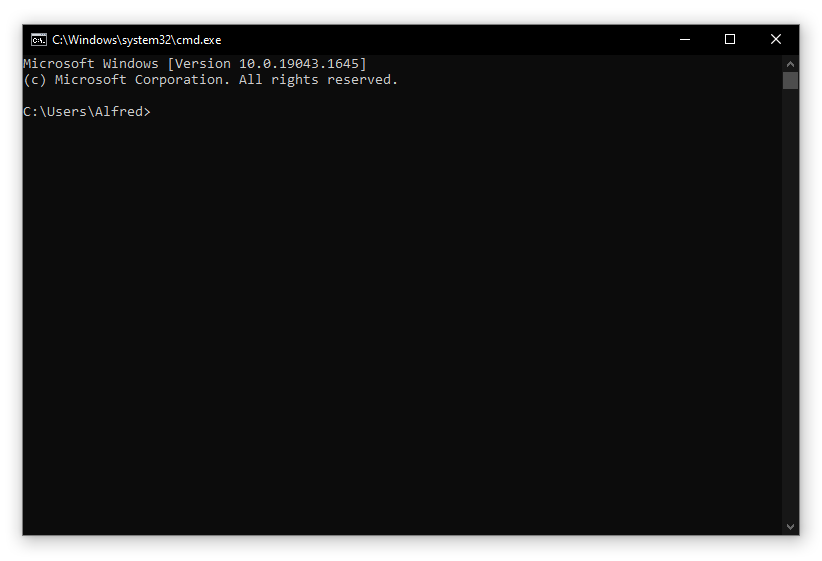
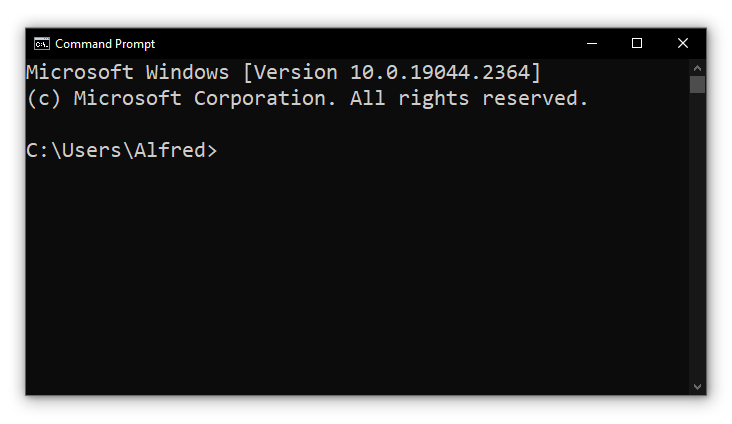
Chapter 2 final fixes
- Added figure to man in chapter 2
- Added whatis to man in chapter 2
- Fixed canted quotation marks in cJSON_String
- Fixed duplicate variable names in cJSON data structure
- Replaced windows terminal images for clarity

Changed region(s): [[0.0, 0.0307, 0.9918, 0.9811], [0.4809, 0.2146, 0.8115, 0.2759]]

diff --git a/doc/DokumenSkripsi/Bab/bab2.tex b/doc/DokumenSkripsi/Bab/bab2.tex
@@ -96,7 +96,7 @@ Untuk navigasi, terminal Linux memiliki beberapa perintah utama. Adapun perintah
 	Sedangkan, direktori relatif selalu dimulai dari \textit{working directory}. Untuk penggunaan direktori relatif, diperlukan dua buah notasi spesial, yaitu titik (\verb|.|), yang merepresentasikan \textit{working directory} sekarang itu sendiri, dan dua titik (\verb|..|), yang merepresentasikan \textit{parent folder} dari \textit{working directory}.
 \end{itemize}
 
-\subsubsection{\texttt{man} \cite{shottsjr:2019:linuxcommandline}}
+\subsubsection{\texttt{man} \cite{marsh:2010:fatfreeintrotocommandline} \cite{shottsjr:2019:linuxcommandline}}
 \label{sec:commandline-linux-manpage}
 
 Untuk sistem-sistem operasi berbasis Linux, ada sebuah konvensi bahwa semua perangkat lunak \textit{executable} yang dimaksudkan untuk dijalankan melalui \cl perlu disertai dengan sebuah dokumentasi formal yang disebut \textit{manual} atau \textit{man page}. Di sistem-sistem operasi ini sudah ada perangkat lunak khusus, bernama ``\textit{man}'' yang fungsinya adalah untuk menampilkan dokumentasi-dokumentasi ini. Adapun \textit{man} digunakan dengan perintah berikut:
@@ -144,7 +144,26 @@ Walaupun begitu, perlu diingat bahwa halaman \textit{man} umumnya tidak mengikut
     \label{tab:commandline-linux-manpage-sections}
 \end{table}
 \noindent
-Adapun contoh penggunaan perintah \texttt{man} ini ada di gambar <REF!>.
+Adapun contoh penggunaan perintah \texttt{man} ini ada di gambar \ref{fig:commandline-linux-man}.
+
+\begin{figure}[ht]
+    \centering
+    \includegraphics[width=0.667\linewidth]{man-ls}
+    \caption[Contoh keluaran \textit{man page}]{Contoh keluaran \texttt{man} untuk perintah \texttt{ls}.}
+    \label{fig:commandline-linux-man}
+\end{figure}
+
+Selain \verb|man|, ada juga perintah yaitu \verb|whatis|, yang akan menampilkan deskripsi satu baris untuk perangkat lunak yang dipilih. Misal, jika pengguna memasukkan perintah berikut:
+
+\begin{verbatim}
+                                 whatis ls
+\end{verbatim}
+
+Hasilnya akan berupa isi dari bagian \verb|NAME| untuk perintah \verb|man ls|, yaitu sebagai berikut.
+
+\begin{verbatim}
+                  ls (1)         - list directory contents
+\end{verbatim}
 
 \subsection{\textit{Command Line} di Windows}
 \label{sec:commandline-windows}
@@ -244,7 +263,7 @@ Untuk navigasi di antarmuka \cl Windows, ada dua perintah penting yang dipakai k
 		Menampilkan keluaran dengan format yang lebih lebar. Opsi ini hampir sama dengan \verb|/D|, hanya saja untuk \verb|/W|, jika opsi ini diikutkan, keluaran akan ditampilkan dengan urutan berdasarkan baris, dan bukan kolom.
 		\item \verb|/X|\\
 		Menampilkan nama pendek yang dibuat untuk nama-nama file non-8.3. Opsi ini memiliki format taampilan yang sama seperti opsi \verb|/N|, hanya saja nama pendeknya ditampilkan di keluaran sebelum nama panjangnya.
-		\item \verb|4|\\
+		\item \verb|/4|\\
 		Menampilkan angka tahun dengan format angka empat digit.
 	\end{itemize}
 \end{itemize}
@@ -847,7 +866,7 @@ Dengan variabel-variabel dalam struktur tersebut sebagai berikut:
 		\item \verb|cJSON_Number|\\
 		Merepresentasikan nilai numerik apapun. Jika nilainya merupakan nilai \textit{double}, maka nilai tersebut akan disimpan di dalam variabel \verb|valuedouble|. Sedangkan jika nilainya merupakan nilai \textit{integer}, maka nilai tersebut akan disimpan di dalam variabel \verb|valueint|.
 		\item \verb|cJSON_String|\\
-		Merepresentasikan nilai \textit{string} apapun. Nilainya disimpan sebagai \textit{string} yang dipisah dengan \textit{null terminator} ('\verb|\0|' atau \verb|\u0000|).
+		Merepresentasikan nilai \textit{string} apapun. Nilainya disimpan sebagai \textit{string} yang dipisah dengan \textit{null terminator} (\textquotesingle\verb|\0|\textquotesingle\xspace atau \verb|\u0000|).
 		\item \verb|cJSON_Array|\\
 		Merepresentasikan nilai \textit{array}. \textit{Array} dalam cJSON diimplementasikan dengan menunjukkan isi dari variabel \verb|child| tadi ke sebuah \textit{linked list} dari objek-objek cJSON. Jika objek cJSON ini merupakan elemen dalam sebuah \textit{array}, maka isi dari variabel \verb|prev| dan \verb|next| merupakan salah satu dari elemen-elemen lain dalam \textit{array} yang menjadi elemen sebelum dan sesudah elemen ini.
 		\item \verb|cJSON_Object|\\
@@ -858,7 +877,7 @@ Dengan variabel-variabel dalam struktur tersebut sebagai berikut:
 		Merepresentasikan sebuah nilai \textit{null}.
 	\end{itemize}
 	
-	\item \verb|valuestring|/\verb|valuestring|/\verb|valuestring|/\verb|string|\\	
+	\item \verb|valuestring|/\verb|valueint|/\verb|valuedouble|/\verb|string|\\	
 	Merupakan variabel-variabel yang menyimpan nilai dari struktur cJSON. Variabel apa yang diisi dan apa isinya tergantung dari tipe data yang disimpan.
 \end{itemize}
 
